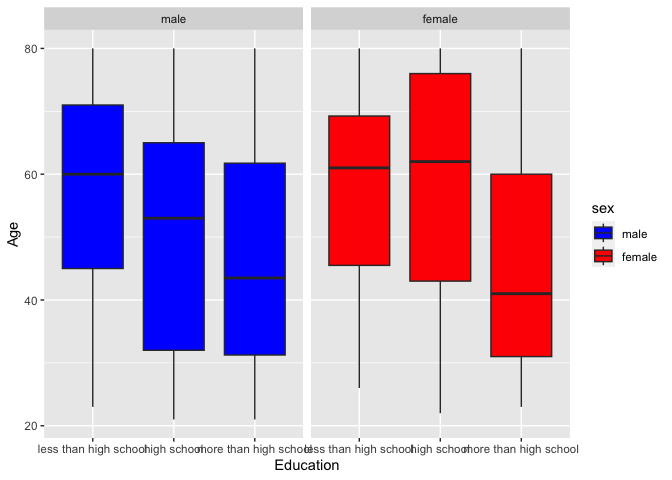
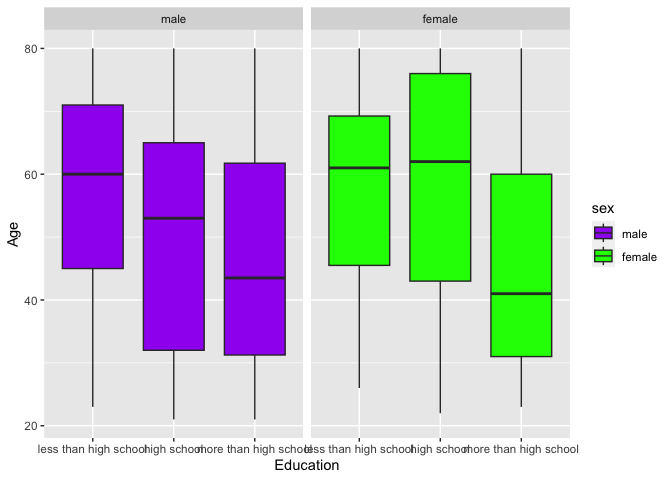
finished problem 3

Changed region(s): [[0.4688, 0.1562, 0.8438, 0.75], [0.0938, 0.2188, 0.4375, 0.75], [0.875, 0.4688, 0.9062, 0.5625]]

diff --git a/p8105_hw3_qw2418.md b/p8105_hw3_qw2418.md
@@ -7,7 +7,7 @@ Qianying Wu
 
 ## Problem 1
 
-#### Read in the data
+1.  Read in the data
 
 ``` r
 data("instacart")
@@ -17,18 +17,18 @@ instacart =
   as_tibble()
 ```
 
-#### Answer questions about the data
+2.  Answer questions about the data
 
-This dataset contains 1384617 rows and 15 columns, with each row
-resprenting a single product from an instacart order. Variables include
-identifiers for user, order, and product; the order in which each
-product was added to the cart. There are several order-level variables,
-describing the day and time of the order, and number of days since prior
-order. Then there are several item-specific variables, describing the
-product name (e.g. Yogurt, Avocado), department (e.g. dairy and eggs,
-produce), and aisle (e.g. yogurt, fresh fruits), and whether the item
-has been ordered by this user in the past. In total, there are 39123
-products found in 131209 orders from 131209 distinct users.
+This dataset contains 1384617 rows and 15 columns, with each row a
+single product from an instacart order. Variables are identifiers for
+user, order, and product; the order in which each product was added to
+the cart. There are several order-level variables, describing the day
+and time of the order, and number of days since prior order. Then there
+are several item-specific variables, describing the product name
+(e.g. Yogurt, Avocado), department (e.g. dairy and eggs, produce), and
+aisle (e.g. yogurt, fresh fruits), and whether the item has been ordered
+by this user in the past. In total, there are 39123 products found in
+131209 orders from 131209 distinct users.
 
 Below is a table summarizing the number of items ordered from aisle. In
 total, there are 134 aisles, with fresh vegetables and fresh fruits
@@ -433,7 +433,7 @@ age_distribution_plot <- nhanes |>
   ggplot(aes(x = education, y = age, fill = sex)) +
   geom_boxplot() +
   labs(x = "Education", y = "Age") +
-  scale_fill_manual(values = c("male" = "blue", "female" = "red")) +
+  scale_fill_manual(values = c("male" = "purple", "female" = "green")) +
   facet_wrap(~sex)
 
 print(age_distribution_plot)
@@ -469,3 +469,70 @@ than the mean age of higher than high school education level.
     should compare men to women and have separate panels for each
     education level. Include a trend line or a smooth to illustrate
     differences. Comment on your plot.
+
+``` r
+nhanes |>
+  group_by(seqn, education, sex, age) |>
+  summarise(n = sum(MIMS)) |>
+  ggplot(aes(x = age, y = n, color = sex)) +
+  geom_point() +
+  geom_smooth(se = FALSE) +
+  facet_grid(. ~ education) +
+  labs(x = "Age", y = "Total Activity") +
+  scale_color_manual(values = c("male" = "purple", "female" = "green"))
+```
+
+    ## `summarise()` has grouped output by 'seqn', 'education', 'sex'. You can
+    ## override using the `.groups` argument.
+    ## `geom_smooth()` using method = 'loess' and formula = 'y ~ x'
+
+![](p8105_hw3_qw2418_files/figure-gfm/unnamed-chunk-12-1.png)<!-- -->
+
+- comment: From the plot, we can see that the overall total activity in
+  three different education levels all show a decreasing trend when age
+  increased in both male and female groups.
+
+In less than high school education group, female group has a higher
+total activity when age is less than 40. However, between age 40 to age
+80, the male group has higher total activity. For both sex, they have a
+peak at around age 60.
+
+In the equivalent to high school education, the trend of the female
+group has a higher total activity than the male group. For both sex
+groups, they have their peak at age 40.
+
+In the more than high school education group, he trend of the female
+group has a higher total activity than the male group.
+
+4.  Accelerometer data allows the inspection activity over the course of
+    the day. Make a three-panel plot that shows the 24-hour activity
+    time courses for each education level and use color to indicate sex.
+    Describe in words any patterns or conclusions you can make based on
+    this graph; including smooth trends may help identify differences.
+
+``` r
+nhanes |>
+  ggplot(aes(x = minutes, y = MIMS, color = sex)) +
+  geom_line(alpha = 0.2) +
+  geom_smooth(aes(group = sex), se = FALSE) +
+  facet_wrap(~ education) +
+  labs(x = "Time of Day", y = "MIMS (Activity)") +
+  scale_color_manual(values = c("male" = "purple", "female" = "green"))
+```
+
+    ## `geom_smooth()` using method = 'gam' and formula = 'y ~ s(x, bs = "cs")'
+
+![](p8105_hw3_qw2418_files/figure-gfm/unnamed-chunk-13-1.png)<!-- -->
+
+- Patterns:
+
+From the graph, it is clear that both age groups have the similar trend
+of MIMS activity across the time of day in less than education and
+equivalent to education groups, in which they have their minimum value
+in the middle time of the day. In the more than education group,
+although male and female group also share the similar trend as the other
+two education groups with their minimum value of MIMS activities in the
+middle time of the day, there are some slight difference between the two
+gender groups. The male group has higher MIMS activities in the early
+times of the day and the late times of the day, which the female group
+has higher MIMS activities in the middle times of the day.
